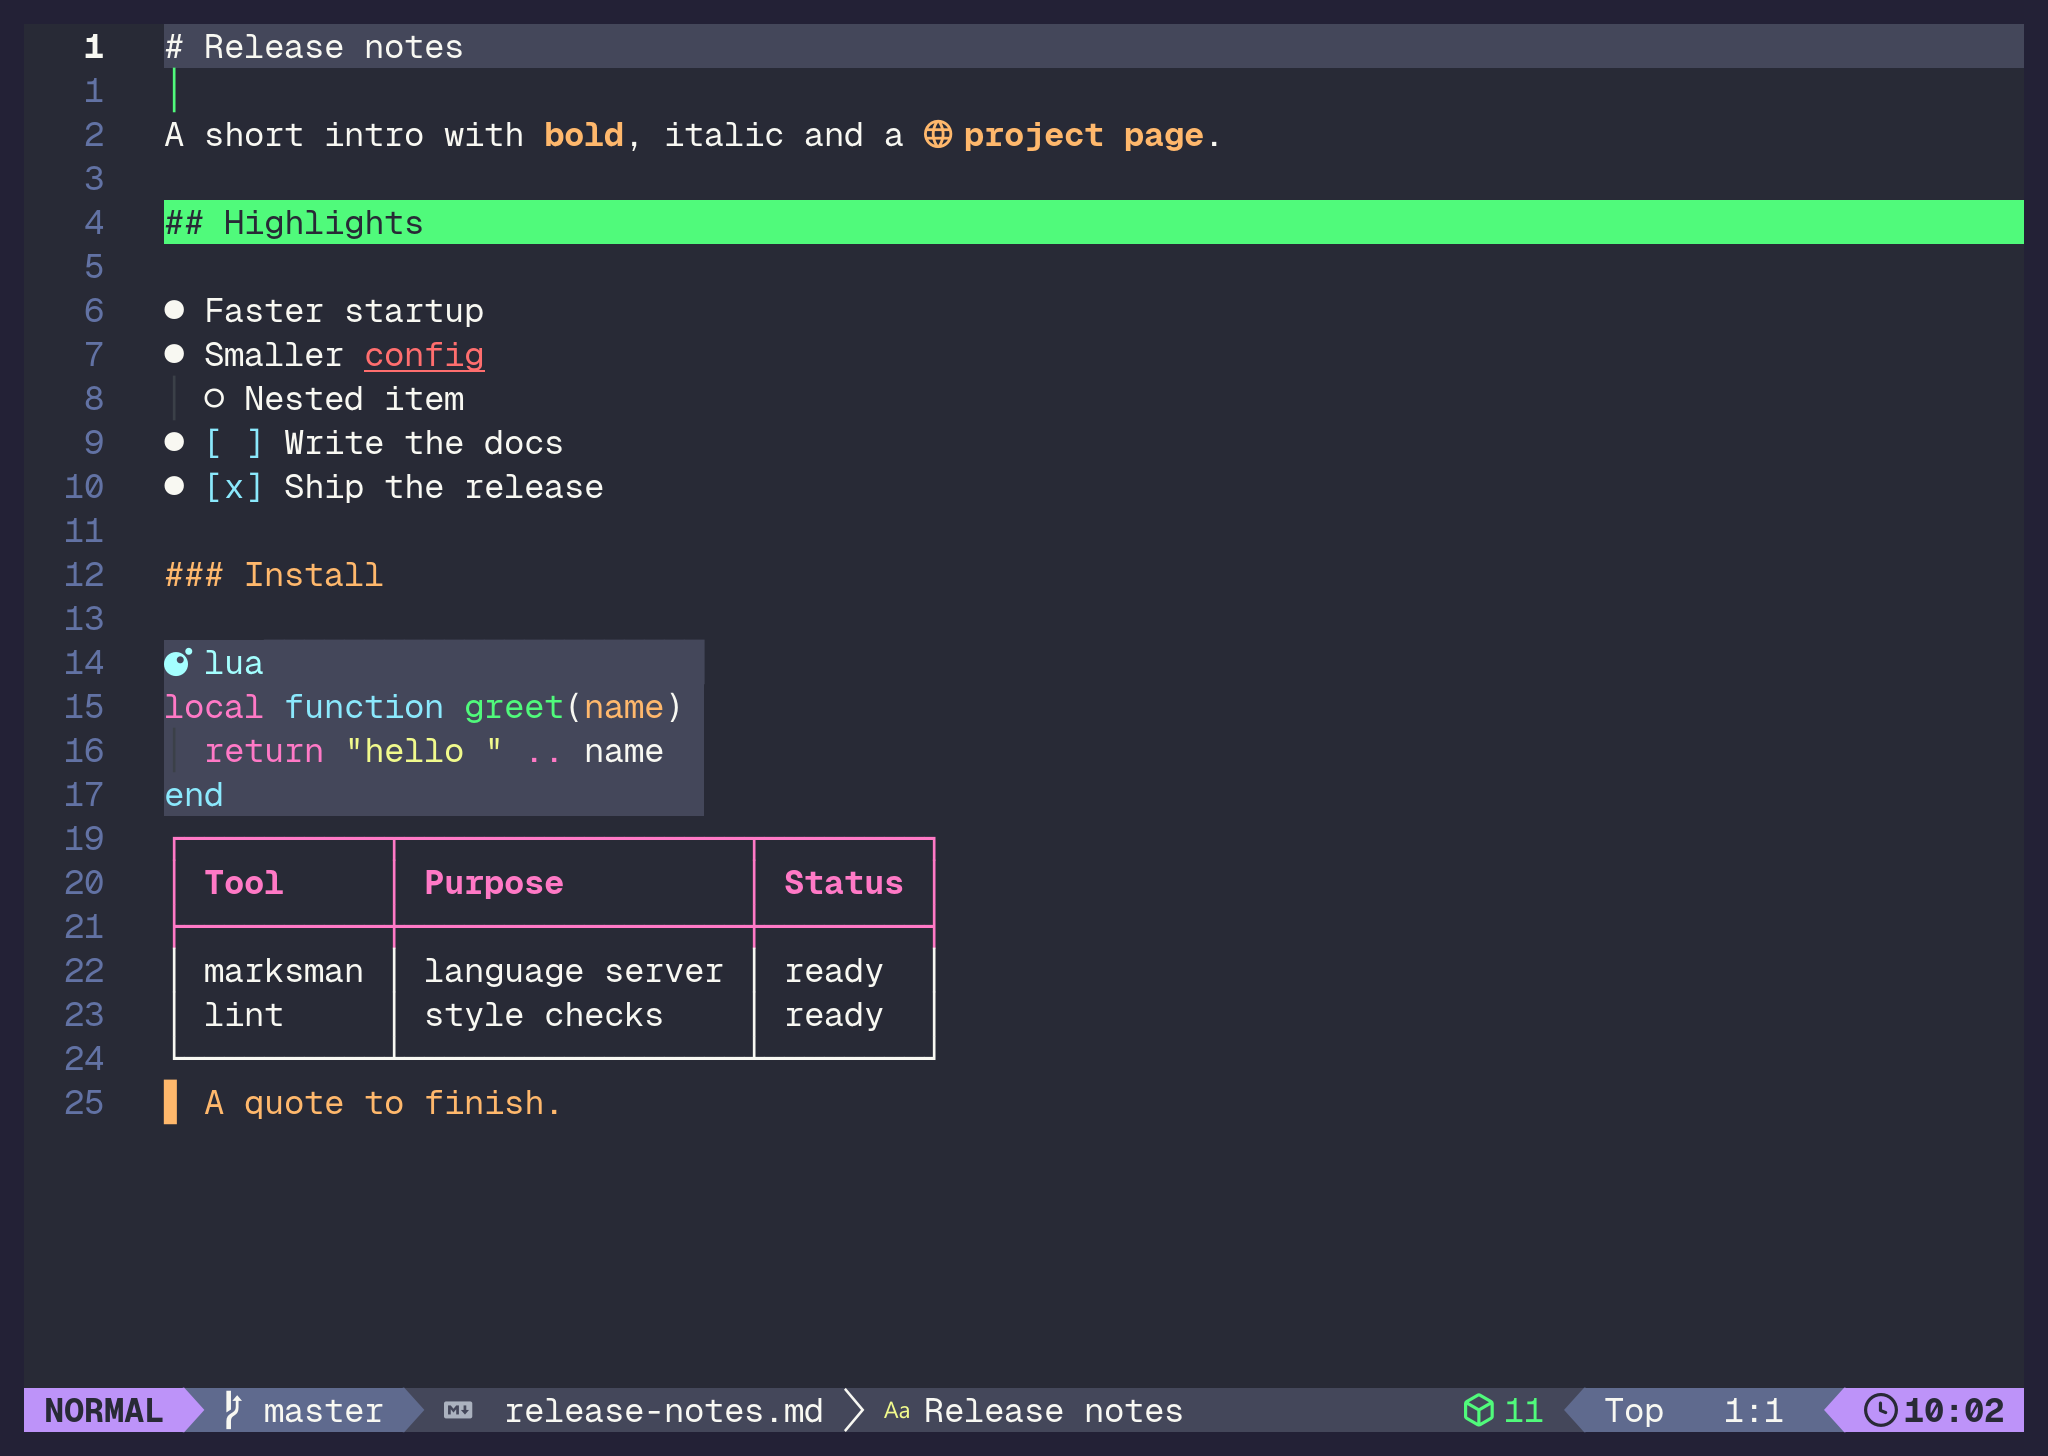
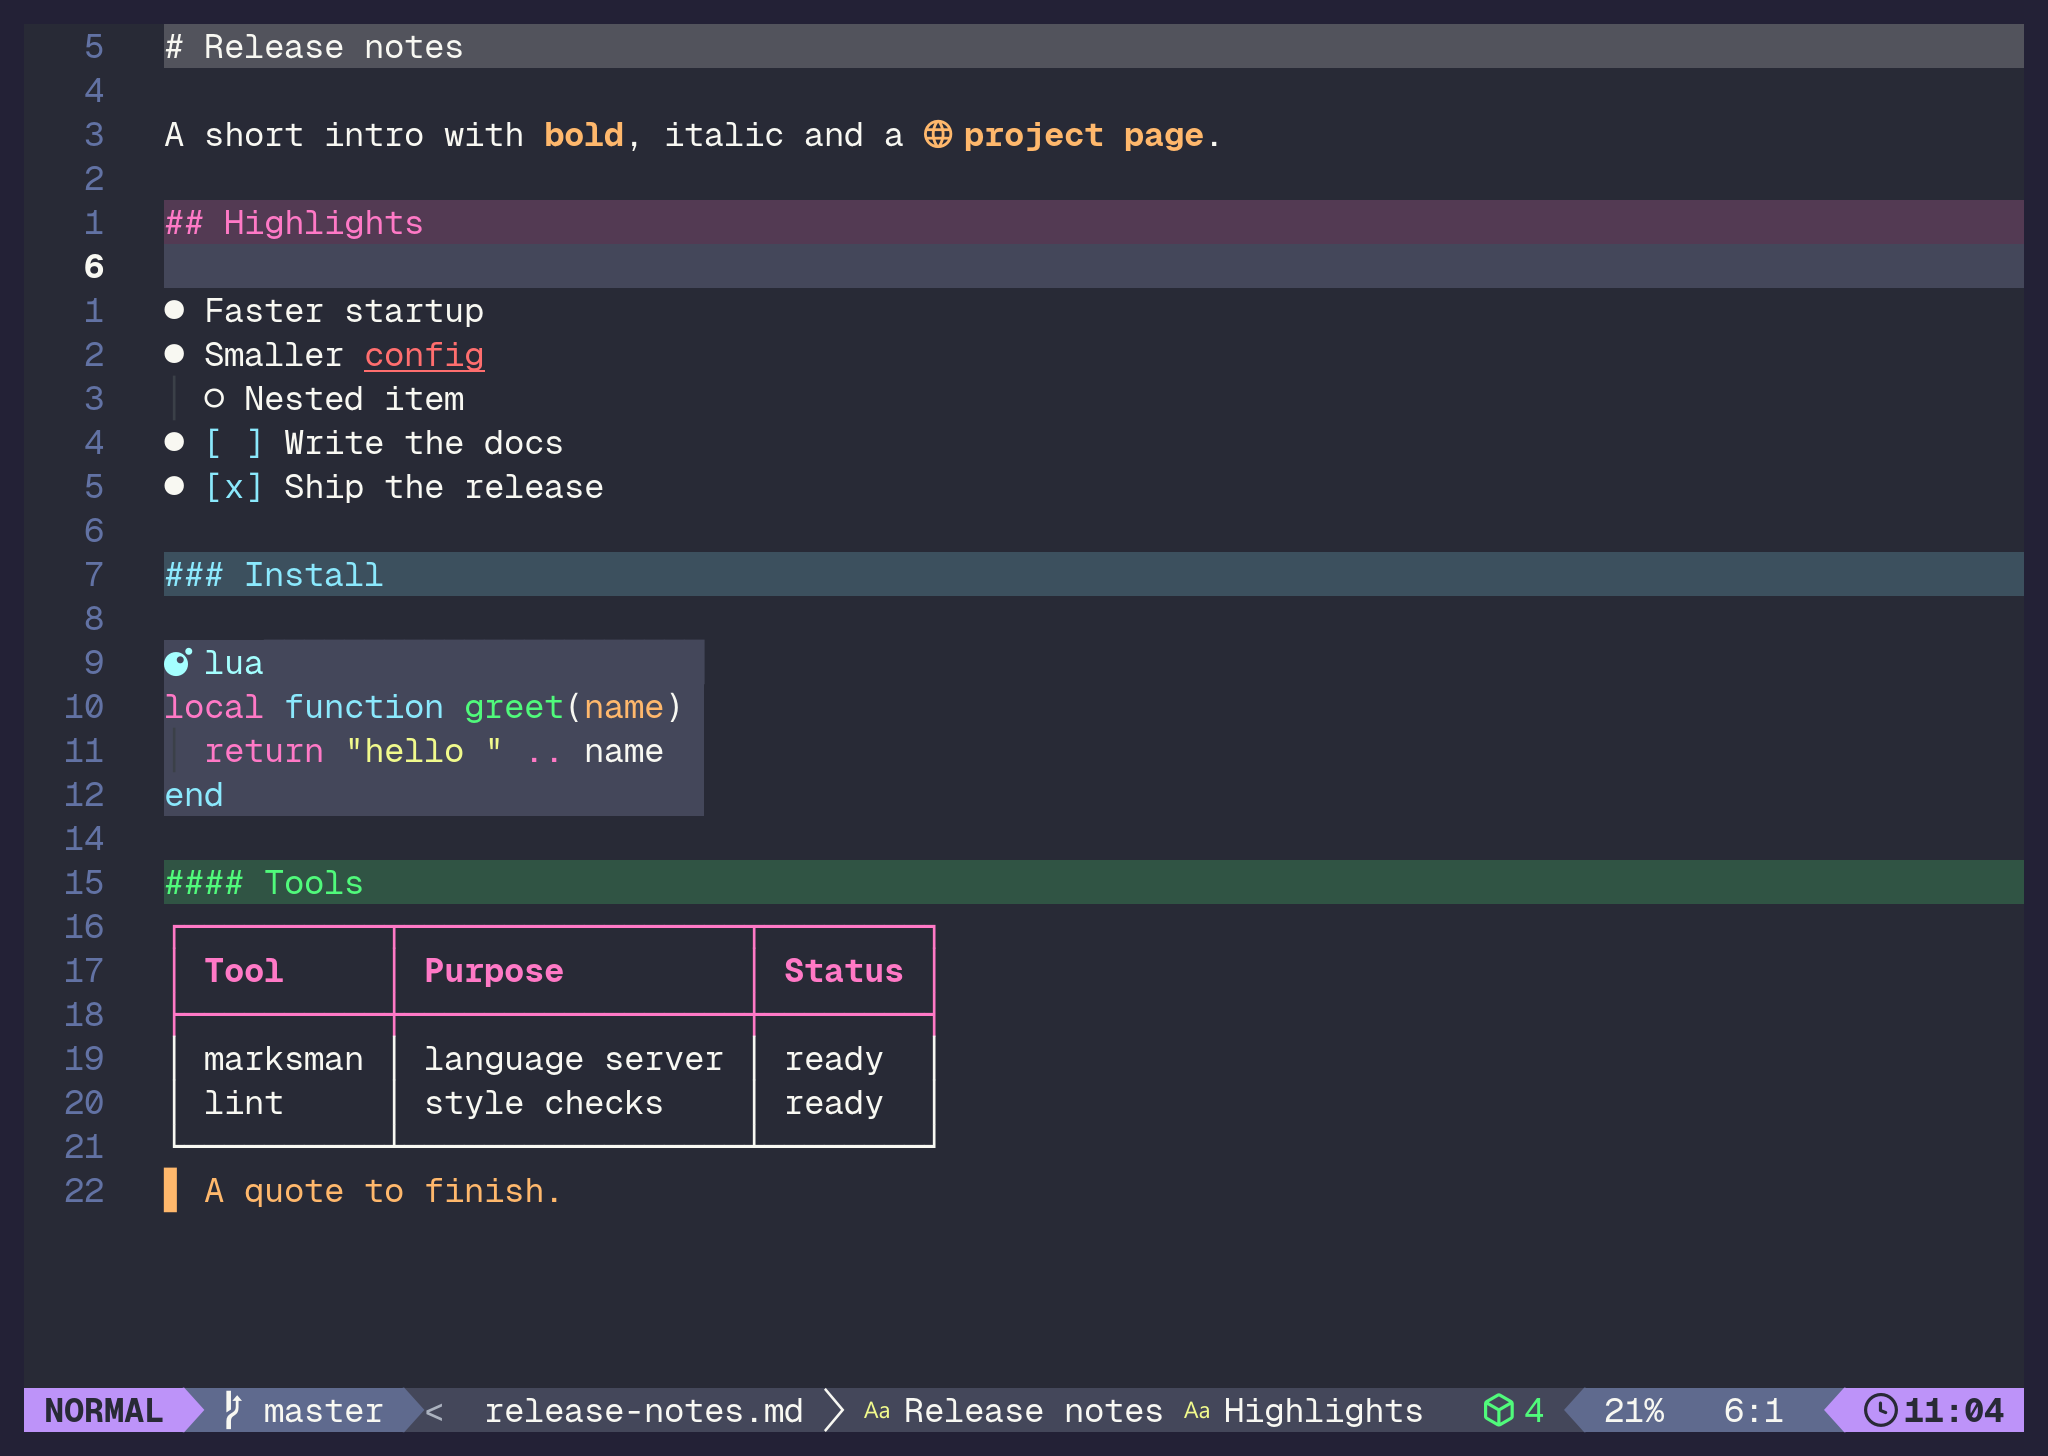
Tint render-markdown heading backgrounds from the heading colour
The default backgrounds link to Diff groups, which dracula colours as foreground only or as a solid bar. Use a background-only tint of each heading's own colour so every level gets a full-width background. Retake the before and after pictures with H1 to H4.

diff --git a/README.md b/README.md
@@ -301,7 +301,7 @@ Markdown files are made for reading in Neovim:
 
 - vimwiki is limited to its own wiki (`~/vimwiki`, `vim.g.vimwiki_global_ext = 0`). Every other `.md` file opens with the `markdown` filetype, so [render-markdown.nvim](https://github.com/MeanderingProgrammer/render-markdown.nvim) and LazyVim's Markdown settings apply to it. Files under `~/vimwiki` keep the `vimwiki` filetype.
 - LazyVim's Markdown extra is on: browser preview (`<leader>cp`), the render toggle (`<leader>um`), markdownlint diagnostics and the marksman language server.
-- The rendered view stays on in every mode (`render_modes = true`; the line under the cursor shows its raw text) and heading backgrounds span the full window width. The options live in `lua/plugins/markdown.lua`.
+- The rendered view stays on in every mode (`render_modes = true`; the line under the cursor shows its raw text) and every heading level gets a full-width background, a tint of that heading's own colour so it fits the active colour scheme. The options live in `lua/plugins/markdown.lua`.
 
 | Before: vimwiki owns every .md file | After: rendered Markdown |
 | --- | --- |
